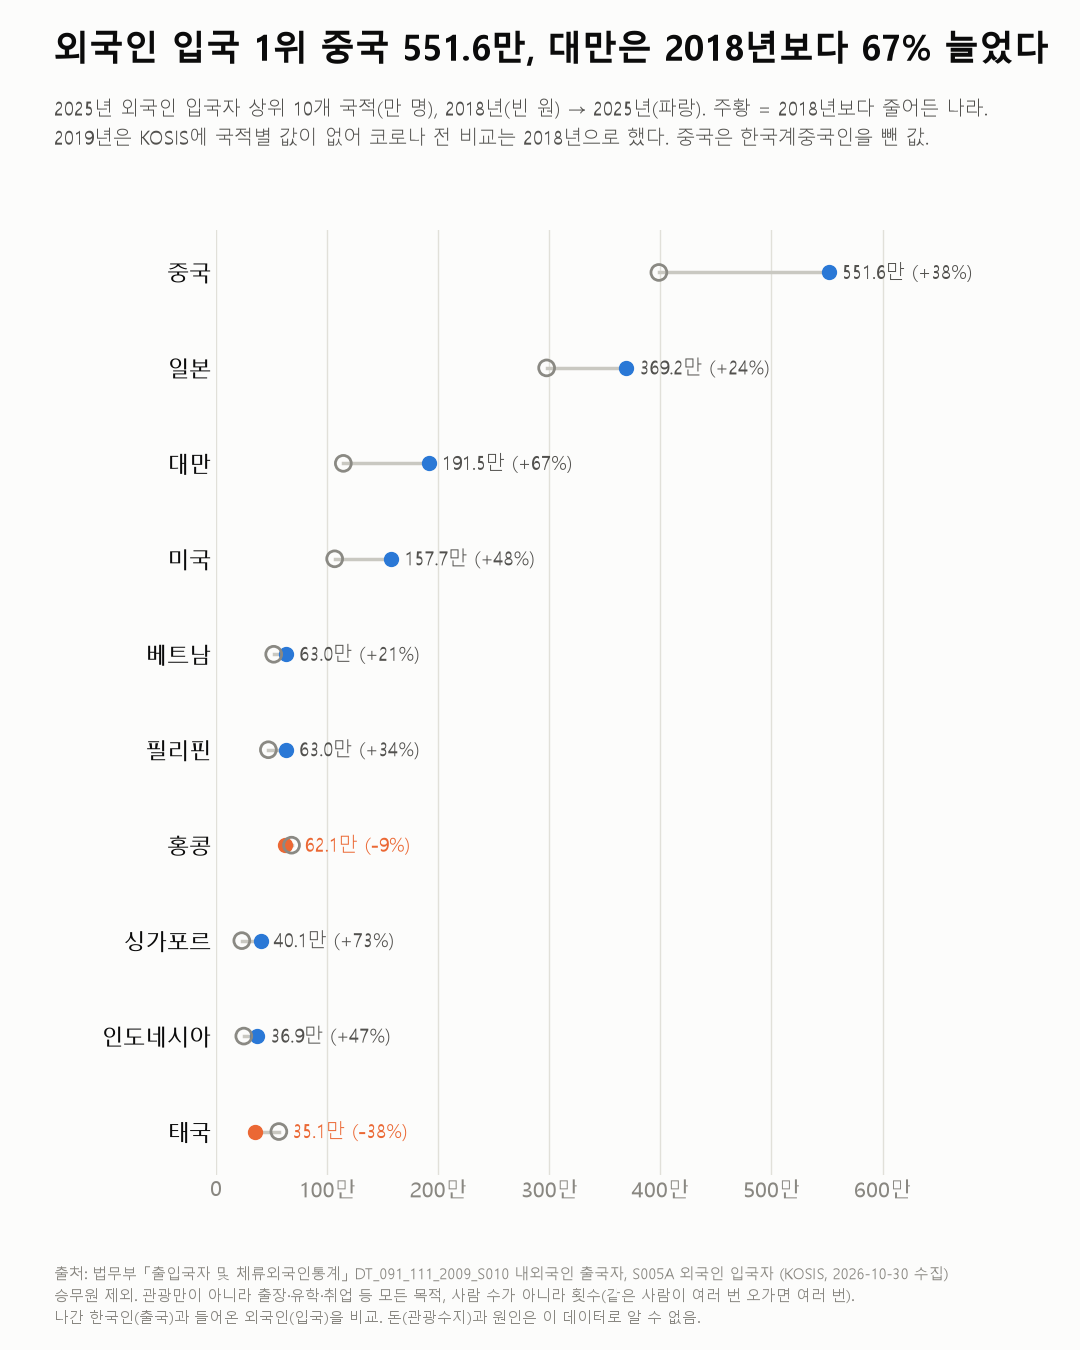
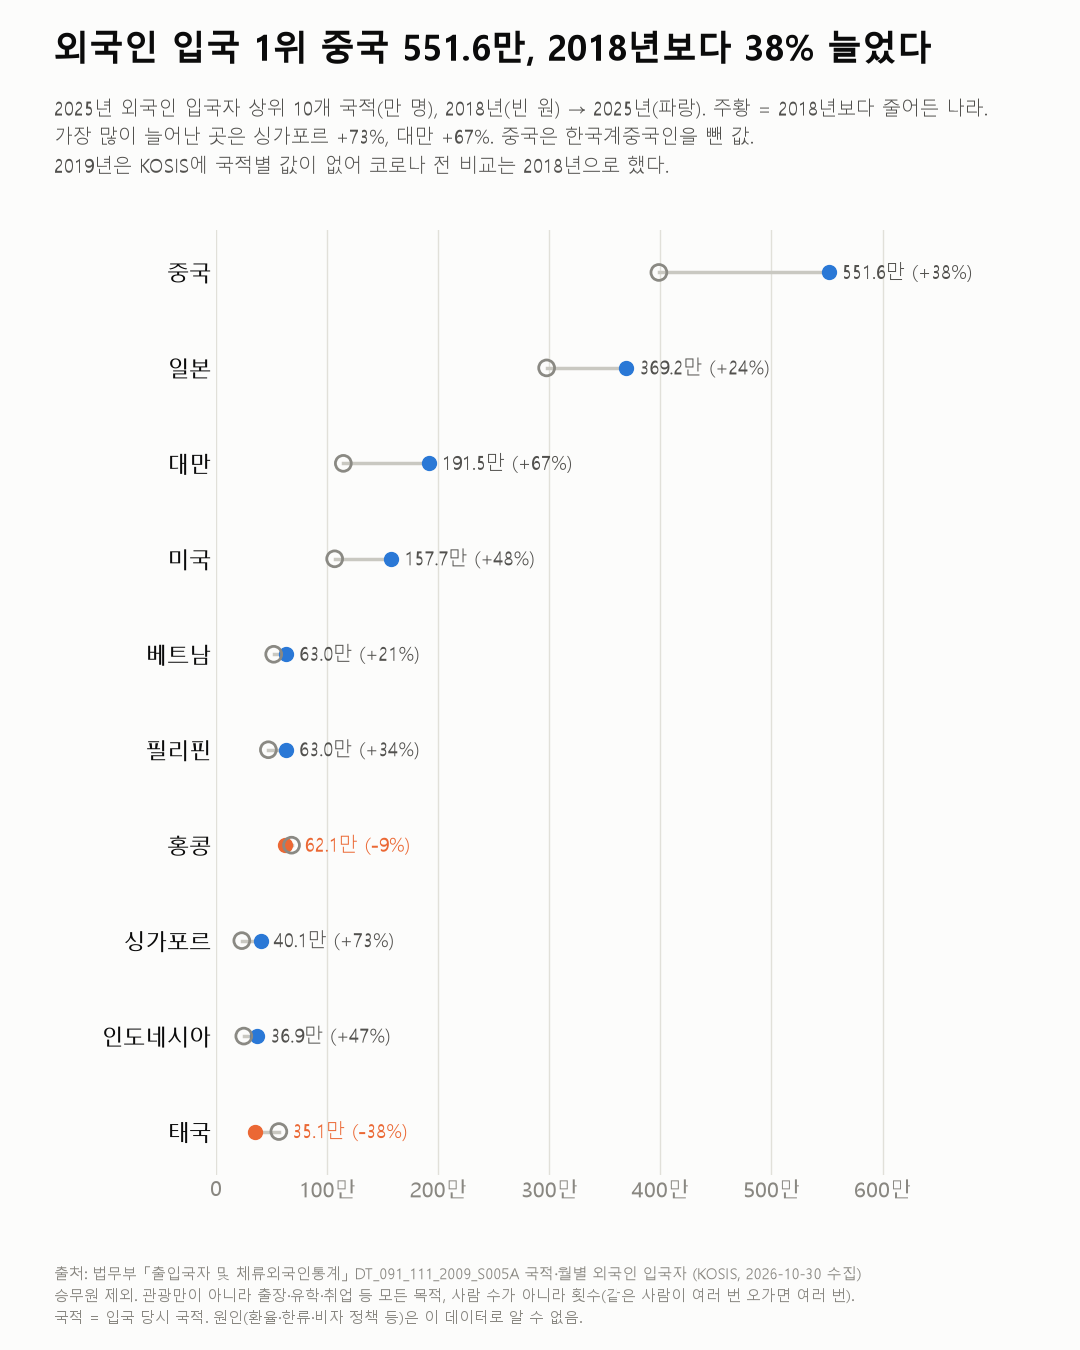
사이트 갱신

diff --git a/index.html b/index.html
@@ -24,7 +24,7 @@
 <section class="intro"><h1>데이터 한 컷</h1><p>흩어진 공공데이터로 질문 하나에 차트 한 장. 출처와 한계를 함께 공개합니다.</p><ul class="pledges"><li><b>출처</b>표 이름과 수집일</li><li><b>한계</b>이 데이터로 말할 수 없는 것</li><li><b>전제</b>데이터를 보기 전에 적은 기준</li></ul></section>
 <nav class="topic-bar" aria-label="주제" hidden><a class="chip" href="#t=" data-topic="">전체 <span>72</span></a><a class="chip" href="#t=%EC%9D%BC%EA%B3%BC%20%EC%9D%B4%EC%A7%81" data-topic="일과 이직">일과 이직 <span>28</span></a><a class="chip" href="#t=%EB%8F%88" data-topic="돈">돈 <span>27</span></a><a class="chip" href="#t=%EC%B2%AD%EB%85%84" data-topic="청년">청년 <span>15</span></a><a class="chip" href="#t=%ED%99%94%EC%A0%9C" data-topic="화제">화제 <span>13</span></a><a class="chip" href="#t=%EC%97%AC%EA%B0%80" data-topic="여가">여가 <span>9</span></a><a class="chip" href="#t=%EC%9B%94%EA%B8%89" data-topic="월급">월급 <span>9</span></a><a class="chip" href="#t=%EC%83%9D%ED%99%9C%EC%8B%9C%EA%B0%84" data-topic="생활시간">생활시간 <span>9</span></a><a class="chip" href="#t=%EC%83%9D%ED%99%9C%EB%B9%84" data-topic="생활비">생활비 <span>9</span></a><a class="chip" href="#t=%EA%B8%B0%EA%B8%B0%EC%99%80%20%EC%83%9D%ED%99%9C" data-topic="기기와 생활">기기와 생활 <span>7</span></a><a class="chip" href="#t=%EC%82%AC%EB%8A%94%20%EA%B3%B3" data-topic="사는 곳">사는 곳 <span>6</span></a><a class="chip" href="#t=%EA%B0%9C%EB%B0%9C" data-topic="개발">개발 <span>6</span></a><a class="chip" href="#t=%EB%85%B8%ED%9B%84" data-topic="노후">노후 <span>5</span></a><a class="chip" href="#t=%EC%A7%81%EC%9E%A5%20%EC%9D%B8%EC%8B%9D" data-topic="직장 인식">직장 인식 <span>5</span></a><a class="chip" href="#t=%EC%9D%B8%ED%94%8C%EB%A3%A8%EC%96%B8%EC%84%9C" data-topic="인플루언서">인플루언서 <span>5</span></a><a class="chip" href="#t=%EC%B0%BD%EC%97%85" data-topic="창업">창업 <span>4</span></a><a class="chip" href="#t=%EA%B1%B4%EA%B0%95" data-topic="건강">건강 <span>4</span></a><a class="chip" href="#t=%EC%9E%90%EC%82%B0" data-topic="자산">자산 <span>3</span></a></nav>
 <ul class="cards">
-<li class="card" data-topics="여가;화제"><a href="2026-10_travel-gap/index.html"><span class="kicker"><span class="new">새 글</span><span class="series">화제</span>여가</span><p class="hook"><strong class="hook-num"><span class="nw">1,958.5만</span></strong><span class="hook-label">2025년 한국에 들어온 외국인(2010년 이후 최다; 나간 한국인 2957.6만)</span></p><h2>2025년 나간 한국인 2,957.6만, 들어온 외국인 1,958.5만</h2><span class="source">출입국자 및 체류외국인통계</span><span class="thumb"><img src="2026-10_travel-gap/chart_travel_gap_trend.png" alt="" loading="lazy"></span></a></li>
+<li class="card" data-topics="여가;화제"><a href="2026-10_travel-gap/index.html"><span class="kicker"><span class="new">새 글</span><span class="series">화제</span>여가</span><p class="hook"><strong class="hook-num"><span class="nw">2,957.6만</span> <span class="vs">vs</span> <span class="nw">1,958.5만</span></strong><span class="hook-label">2025년 나간 한국인 vs 들어온 외국인(둘 다 2010년 이후 최다)</span></p><h2>2025년 나간 한국인 2,957.6만, 들어온 외국인 1,958.5만</h2><span class="source">출입국자 및 체류외국인통계</span><span class="thumb"><img src="2026-10_travel-gap/chart_travel_gap_trend.png" alt="" loading="lazy"></span></a></li>
 <li class="card" data-topics="월급;일과 이직;화제"><a href="2026-10_nonregular-pay/index.html"><span class="kicker"><span class="series">화제</span>월급 · 일과 이직</span><p class="hook"><strong class="hook-num"><span class="nw">194.0만 원</span></strong><span class="hook-label">2026년 8월 정규직(405.2만)과 비정규직(211.2만) 월평균 임금 차이</span></p><h2>정규직 405.2만, 비정규직 211.2만&nbsp;원</h2><span class="source">근로형태별 부가조사</span><span class="thumb"><img src="2026-10_nonregular-pay/chart_nonregular_pay_level.png" alt="" loading="lazy"></span></a></li>
 <li class="card" data-topics="일과 이직;노후;화제"><a href="2026-10_older-workers/index.html"><span class="kicker"><span class="series">화제</span>일과 이직 · 노후</span><p class="hook"><strong class="hook-num"><span class="nw">414.7만</span></strong><span class="hook-label">2025년 65세 이상 취업자(20대 344.2만 명보다 많음; 2024년 처음 역전)</span></p><h2>65세 이상 취업자 414.7만, 20대(344.2만)보다 많다</h2><span class="source">경제활동인구조사</span><span class="thumb"><img src="2026-10_older-workers/chart_older_workers_count.png" alt="" loading="lazy"></span></a></li>
 </ul>

diff --git a/2026-10_weekend-leisure/index.html b/2026-10_weekend-leisure/index.html
@@ -75,7 +75,7 @@
 <li><a href="premises.html">전제 기록(premises)</a>(데이터를 받기 전에 작성)를 따랐다. 받기 전에 2021년 항목 변경을 확인하고 해당 항목은 따로 다뤘다.</li>
 </ul><p class="premises-link"><a href="premises.html">전제 기록 원문 보기 <span aria-hidden="true">→</span></a></p></section>
 </article>
-<aside class="related"><h2>이어서 볼 글</h2><ul class="related-list"><li><a href="../2026-10_exercise-rate/index.html"><span class="kicker">여가 · 생활시간</span><strong class="hook-num"><span class="nw">62.9%</span></strong><span class="mini-title">주 1회 이상 운동 62.9%, 10대만 4년 연속 줄었다</span></a></li><li><a href="../2026-10_reading-rate/index.html"><span class="kicker">여가 · 생활시간</span><strong class="hook-num"><span class="nw">55.7% → 38.5%</span></strong><span class="mini-title">1년에 책 한 권, 성인 55.7% → 38.5%</span></a></li><li><a href="../2026-10_travel-gap/index.html"><span class="kicker"><span class="series">화제</span>여가</span><strong class="hook-num"><span class="nw">1,958.5만</span></strong><span class="mini-title">2025년 나간 한국인 2,957.6만, 들어온 외국인 1,958.5만</span></a></li></ul></aside>
+<aside class="related"><h2>이어서 볼 글</h2><ul class="related-list"><li><a href="../2026-10_exercise-rate/index.html"><span class="kicker">여가 · 생활시간</span><strong class="hook-num"><span class="nw">62.9%</span></strong><span class="mini-title">주 1회 이상 운동 62.9%, 10대만 4년 연속 줄었다</span></a></li><li><a href="../2026-10_reading-rate/index.html"><span class="kicker">여가 · 생활시간</span><strong class="hook-num"><span class="nw">55.7% → 38.5%</span></strong><span class="mini-title">1년에 책 한 권, 성인 55.7% → 38.5%</span></a></li><li><a href="../2026-10_travel-gap/index.html"><span class="kicker"><span class="series">화제</span>여가</span><strong class="hook-num"><span class="nw">2,957.6만</span> <span class="vs">vs</span> <span class="nw">1,958.5만</span></strong><span class="mini-title">2025년 나간 한국인 2,957.6만, 들어온 외국인 1,958.5만</span></a></li></ul></aside>
 </main>
 <footer class="site-footer">
   <p>모든 수치는 공개된 원자료로 다시 계산했습니다. 패턴을 보여줄 뿐 원인을 단정하지 않으며, 투자·진로 권유가 아닙니다.</p>

diff --git a/2026-10_overseas-travel/index.html b/2026-10_overseas-travel/index.html
@@ -79,7 +79,7 @@
 <li>받은 뒤 바뀐 점: 보도 대조 중 다른 조사(국민여행조사)의 값이 크게 달라, 그 차이를 한계 첫 줄과 차트 각주에 적었다.</li>
 </ul><p class="premises-link"><a href="premises.html">전제 기록 원문 보기 <span aria-hidden="true">→</span></a></p></section>
 </article>
-<aside class="related"><h2>이어서 볼 글</h2><ul class="related-list"><li><a href="../2026-10_travel-gap/index.html"><span class="kicker"><span class="series">화제</span>여가</span><strong class="hook-num"><span class="nw">1,958.5만</span></strong><span class="mini-title">2025년 나간 한국인 2,957.6만, 들어온 외국인 1,958.5만</span></a></li><li><a href="../2026-10_movie-going/index.html"><span class="kicker">여가 · 기기와 생활</span><strong class="hook-num"><span class="nw">77.0% → 50.6%</span></strong><span class="mini-title">영화관 간 사람 77.0%(2019) → 50.6%</span></a></li><li><a href="../2026-10_drinking/index.html"><span class="kicker">건강 · 여가</span><strong class="hook-num"><span class="nw">37.0% → 51.4%</span></strong><span class="mini-title">한 달에 한 번 이상 마시는 여자 37.0% → 51.4%</span></a></li></ul></aside>
+<aside class="related"><h2>이어서 볼 글</h2><ul class="related-list"><li><a href="../2026-10_travel-gap/index.html"><span class="kicker"><span class="series">화제</span>여가</span><strong class="hook-num"><span class="nw">2,957.6만</span> <span class="vs">vs</span> <span class="nw">1,958.5만</span></strong><span class="mini-title">2025년 나간 한국인 2,957.6만, 들어온 외국인 1,958.5만</span></a></li><li><a href="../2026-10_movie-going/index.html"><span class="kicker">여가 · 기기와 생활</span><strong class="hook-num"><span class="nw">77.0% → 50.6%</span></strong><span class="mini-title">영화관 간 사람 77.0%(2019) → 50.6%</span></a></li><li><a href="../2026-10_drinking/index.html"><span class="kicker">건강 · 여가</span><strong class="hook-num"><span class="nw">37.0% → 51.4%</span></strong><span class="mini-title">한 달에 한 번 이상 마시는 여자 37.0% → 51.4%</span></a></li></ul></aside>
 </main>
 <footer class="site-footer">
   <p>모든 수치는 공개된 원자료로 다시 계산했습니다. 패턴을 보여줄 뿐 원인을 단정하지 않으며, 투자·진로 권유가 아닙니다.</p>

diff --git a/2026-10_reading-rate/index.html b/2026-10_reading-rate/index.html
@@ -81,7 +81,7 @@
 <li>받은 뒤 바뀐 점: 나이 구분 이름이 해마다 달라 정리 단계에서 묶는 표(AGE)를 만들었다.</li>
 </ul><p class="premises-link"><a href="premises.html">전제 기록 원문 보기 <span aria-hidden="true">→</span></a></p></section>
 </article>
-<aside class="related"><h2>이어서 볼 글</h2><ul class="related-list"><li><a href="../2026-10_weekend-leisure/index.html"><span class="kicker">여가 · 생활시간</span><strong class="hook-num"><span class="nw">50.8% → 71.6%</span></strong><span class="mini-title">주말엔 쉰다, 2015년 50.8% → 2025년 71.6%</span></a></li><li><a href="../2026-10_exercise-rate/index.html"><span class="kicker">여가 · 생활시간</span><strong class="hook-num"><span class="nw">62.9%</span></strong><span class="mini-title">주 1회 이상 운동 62.9%, 10대만 4년 연속 줄었다</span></a></li><li><a href="../2026-10_travel-gap/index.html"><span class="kicker"><span class="series">화제</span>여가</span><strong class="hook-num"><span class="nw">1,958.5만</span></strong><span class="mini-title">2025년 나간 한국인 2,957.6만, 들어온 외국인 1,958.5만</span></a></li></ul></aside>
+<aside class="related"><h2>이어서 볼 글</h2><ul class="related-list"><li><a href="../2026-10_weekend-leisure/index.html"><span class="kicker">여가 · 생활시간</span><strong class="hook-num"><span class="nw">50.8% → 71.6%</span></strong><span class="mini-title">주말엔 쉰다, 2015년 50.8% → 2025년 71.6%</span></a></li><li><a href="../2026-10_exercise-rate/index.html"><span class="kicker">여가 · 생활시간</span><strong class="hook-num"><span class="nw">62.9%</span></strong><span class="mini-title">주 1회 이상 운동 62.9%, 10대만 4년 연속 줄었다</span></a></li><li><a href="../2026-10_travel-gap/index.html"><span class="kicker"><span class="series">화제</span>여가</span><strong class="hook-num"><span class="nw">2,957.6만</span> <span class="vs">vs</span> <span class="nw">1,958.5만</span></strong><span class="mini-title">2025년 나간 한국인 2,957.6만, 들어온 외국인 1,958.5만</span></a></li></ul></aside>
 </main>
 <footer class="site-footer">
   <p>모든 수치는 공개된 원자료로 다시 계산했습니다. 패턴을 보여줄 뿐 원인을 단정하지 않으며, 투자·진로 권유가 아닙니다.</p>
